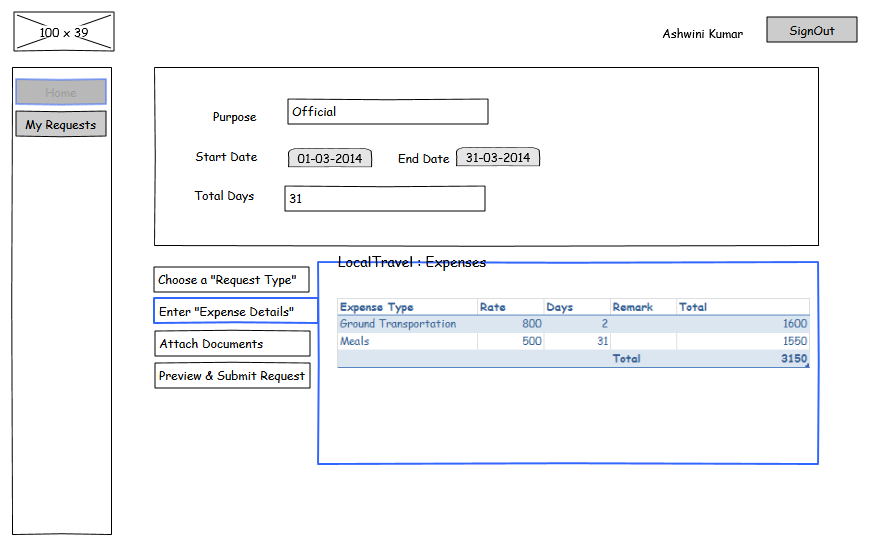
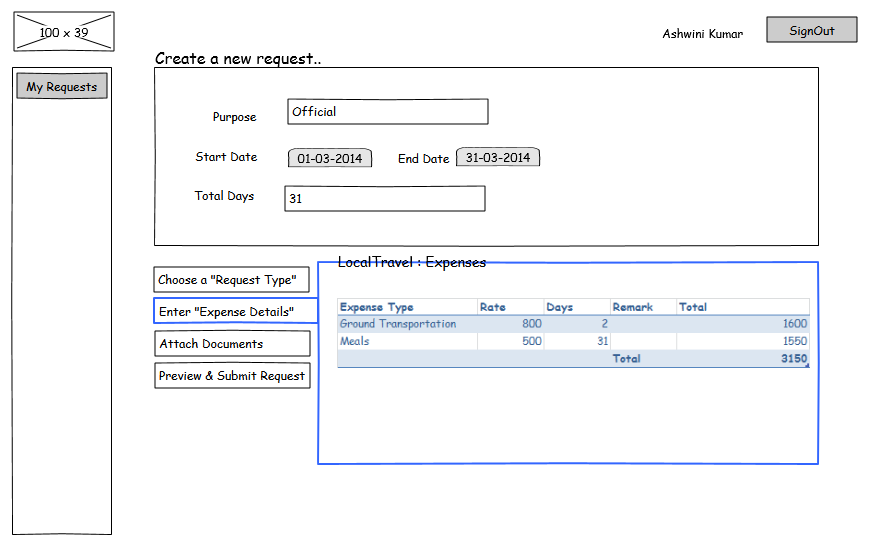
removing 2 buttons for Home and My Requests

Changed region(s): [[0.0, 0.1234, 0.1234, 0.2468], [0.1851, 0.0926, 0.3703, 0.1234]]

diff --git a/erequests/exports/index.html b/erequests/exports/index.html
@@ -1,1 +1,1 @@
-<html xmlns="http://www.w3.org/1999/xhtml"><head><meta http-equiv="Content-Type" content="text/html; charset=UTF-8" /><title>erequests.ep</title><link rel="stylesheet" href="Resources/SampleStyle.css" /></head><body><h1 id="documentTitle">erequests.ep</h1><p id="documentMetadata">Exported at: Sat Aug 09 2014 19:00:10 GMT+0530 (India Standard Time)</p><div class="Page" id="login_page"><h2>Login</h2><div class="ImageContainer"><img width="875" height="551" src="pages%5Clogin.png" usemap="#map_login" /></div><map name="map_login"><area shape="rect" coords="390.5,313.5,481.5,339.5" href="#homepage_advance_page" title="Go to page 'Homepage : Advance'" /></map></div><div class="Page" id="homepage_advance_page"><h2>Homepage : Advance</h2><div class="ImageContainer"><img width="875" height="551" src="pages%5Chomepage_advance.png" usemap="#map_homepage_advance" /></div><map name="map_homepage_advance"><area shape="rect" coords="15.5,110.5,106.5,137.25" href="#my_requests_page" title="Go to page 'My Requests'" /><area shape="rect" coords="154.5,366.75,310.5,393.5" href="#preview_submit_request_1_page" title="Go to page 'Preview &amp; Submit Request 1'" /><area shape="rect" coords="153.5,334.75,309.5,361.5" href="#attach_documents_1_page" title="Go to page 'Attach Documents 1'" /><area shape="rect" coords="154.5,301.75,310.5,328.5" href="#expense_details_outstation_travel_advance_page" title="Go to page 'Expense Details : Outstation Travel Advance'" /><area shape="rect" coords="766.5,16.5,857.5,42.5" href="#login_page" title="Go to page 'Login'" /><area shape="rect" coords="13.5,11.5,114.5,51.5" href="#login_page" title="Go to page 'Login'" /></map></div><div class="Page" id="expense_details_outstation_travel_advance_page"><h2>Expense Details : Outstation Travel Advance</h2><div class="ImageContainer"><img width="875" height="551" src="pages%5Cexpense_details_outstation_travel_advance.png" usemap="#map_expense_details_outstation_travel_advance" /></div><map name="map_expense_details_outstation_travel_advance"><area shape="rect" coords="15.5,110.5,106.5,137.25" href="#my_requests_page" title="Go to page 'My Requests'" /><area shape="rect" coords="154.5,361.75,310.5,388.5" href="#preview_submit_request_1_page" title="Go to page 'Preview &amp; Submit Request 1'" /><area shape="rect" coords="154.5,329.75,310.5,356.5" href="#attach_documents_1_page" title="Go to page 'Attach Documents 1'" /><area shape="rect" coords="154.5,266.5,310.5,292.5" href="#homepage_advance_page" title="Go to page 'Homepage : Advance'" /><area shape="rect" coords="766.5,16.5,857.5,42.5" href="#login_page" title="Go to page 'Login'" /><area shape="rect" coords="13.5,11.5,114.5,51.5" href="#login_page" title="Go to page 'Login'" /></map></div><div class="Page" id="attach_documents_1_page"><h2>Attach Documents 1</h2><div class="ImageContainer"><img width="875" height="551" src="pages%5Cattach_documents_1.png" usemap="#map_attach_documents_1" /></div><map name="map_attach_documents_1"><area shape="rect" coords="15.5,110.5,106.5,137.25" href="#my_requests_page" title="Go to page 'My Requests'" /><area shape="rect" coords="399.5,288.75,490.5,315.5" href="#attach_documents_2_page" title="Go to page 'Attach Documents 2'" /><area shape="rect" coords="766.5,16.5,857.5,42.5" href="#login_page" title="Go to page 'Login'" /><area shape="rect" coords="13.5,11.5,114.5,51.5" href="#login_page" title="Go to page 'Login'" /></map></div><div class="Page" id="attach_documents_2_page"><h2>Attach Documents 2</h2><div class="ImageContainer"><img width="875" height="551" src="pages%5Cattach_documents_2.png" usemap="#map_attach_documents_2" /></div><map name="map_attach_documents_2"><area shape="rect" coords="15.5,110.5,106.5,137.25" href="#my_requests_page" title="Go to page 'My Requests'" /><area shape="rect" coords="771,403,801,432" href="#attach_documents_1_page" title="Go to page 'Attach Documents 1'" /><area shape="rect" coords="154.5,361.75,310.5,388.5" href="#preview_submit_request_1_page" title="Go to page 'Preview &amp; Submit Request 1'" /><area shape="rect" coords="766.5,16.5,857.5,42.5" href="#login_page" title="Go to page 'Login'" /><area shape="rect" coords="13.5,11.5,114.5,51.5" href="#login_page" title="Go to page 'Login'" /></map></div><div class="Page" id="preview_submit_request_1_page"><h2>Preview &amp; Submit Request 1</h2><div class="ImageContainer"><img width="875" height="551" src="pages%5Cpreview_submit_request_1.png" usemap="#map_preview_submit_request_1" /></div><map name="map_preview_submit_request_1"><area shape="rect" coords="15.5,110.5,106.5,137.25" href="#my_requests_page" title="Go to page 'My Requests'" /><area shape="rect" coords="714.5,464.5,805.5,490.5" href="#preview_submit_request_2_page" title="Go to page 'Preview &amp; Submit Request 2'" /><area shape="rect" coords="766.5,16.5,857.5,42.5" href="#login_page" title="Go to page 'Login'" /><area shape="rect" coords="13.5,11.5,114.5,51.5" href="#login_page" title="Go to page 'Login'" /></map></div><div class="Page" id="preview_submit_request_2_page"><h2>Preview &amp; Submit Request 2</h2><div class="ImageContainer"><img width="875" height="551" src="pages%5Cpreview_submit_request_2.png" usemap="#map_preview_submit_request_2" /></div><map name="map_preview_submit_request_2"><area shape="rect" coords="15.5,110.5,106.5,137.25" href="#my_requests_page" title="Go to page 'My Requests'" /><area shape="rect" coords="131,62,849,540" href="#homepage_advance_page" title="Go to page 'Homepage : Advance'" /><area shape="rect" coords="766.5,16.5,857.5,42.5" href="#login_page" title="Go to page 'Login'" /><area shape="rect" coords="13.5,11.5,114.5,51.5" href="#login_page" title="Go to page 'Login'" /></map></div><div class="Page" id="expense_details_local_travel_advance_page"><h2>Expense Details : Local Travel Advance</h2><div class="ImageContainer"><img width="875" height="551" src="pages%5Cexpense_details_local_travel_advance.png" usemap="#map_expense_details_local_travel_advance" /></div><map name="map_expense_details_local_travel_advance"><area shape="rect" coords="15.5,110.5,106.5,137.25" href="#my_requests_page" title="Go to page 'My Requests'" /><area shape="rect" coords="154.5,361.75,310.5,388.5" href="#preview_submit_request_1_page" title="Go to page 'Preview &amp; Submit Request 1'" /><area shape="rect" coords="154.5,329.75,310.5,356.5" href="#attach_documents_1_page" title="Go to page 'Attach Documents 1'" /><area shape="rect" coords="153.5,266.5,309.5,292.5" href="#homepage_advance_page" title="Go to page 'Homepage : Advance'" /><area shape="rect" coords="766.5,16.5,857.5,42.5" href="#login_page" title="Go to page 'Login'" /><area shape="rect" coords="13.5,11.5,114.5,51.5" href="#login_page" title="Go to page 'Login'" /></map></div><div class="Page" id="expense_details_onsite_advance_page"><h2>Expense Details : Onsite Advance</h2><div class="ImageContainer"><img width="875" height="551" src="pages%5Cexpense_details_onsite_advance.png" usemap="#map_expense_details_onsite_advance" /></div><map name="map_expense_details_onsite_advance"><area shape="rect" coords="15.5,110.5,106.5,137.25" href="#my_requests_page" title="Go to page 'My Requests'" /><area shape="rect" coords="154.5,361.75,310.5,388.5" href="#preview_submit_request_1_page" title="Go to page 'Preview &amp; Submit Request 1'" /><area shape="rect" coords="154.5,329.75,310.5,356.5" href="#attach_documents_1_page" title="Go to page 'Attach Documents 1'" /><area shape="rect" coords="154.5,266.5,310.5,292.5" href="#homepage_advance_page" title="Go to page 'Homepage : Advance'" /><area shape="rect" coords="766.5,16.5,857.5,42.5" href="#login_page" title="Go to page 'Login'" /><area shape="rect" coords="13.5,11.5,114.5,51.5" href="#login_page" title="Go to page 'Login'" /></map></div><div class="Page" id="my_requests_page"><h2>My Requests</h2><div class="ImageContainer"><img width="875" height="551" src="pages%5Cmy_requests.png" usemap="#map_my_requests" /></div><map name="map_my_requests"><area shape="rect" coords="15.5,78.5,106.5,105.25" href="#homepage_advance_page" title="Go to page 'Homepage : Advance'" /><area shape="rect" coords="15,110,107,137.75" href="#my_requests_page" title="Go to page 'My Requests'" /><area shape="rect" coords="766.5,16.5,857.5,42.5" href="#login_page" title="Go to page 'Login'" /><area shape="rect" coords="13.5,11.5,114.5,51.5" href="#login_page" title="Go to page 'Login'" /></map></div></body></html>
+<html xmlns="http://www.w3.org/1999/xhtml"><head><meta http-equiv="Content-Type" content="text/html; charset=UTF-8" /><title>erequests.ep</title><link rel="stylesheet" href="Resources/SampleStyle.css" /></head><body><h1 id="documentTitle">erequests.ep</h1><p id="documentMetadata">Exported at: Sun Aug 10 2014 02:02:11 GMT+0530 (India Standard Time)</p><div class="Page" id="login_page"><h2>Login</h2><div class="ImageContainer"><img width="875" height="551" src="pages%5Clogin.png" usemap="#map_login" /></div><map name="map_login"><area shape="rect" coords="390.5,313.5,481.5,339.5" href="#homepage_advance_page" title="Go to page 'Homepage : Advance'" /></map></div><div class="Page" id="homepage_advance_page"><h2>Homepage : Advance</h2><div class="ImageContainer"><img width="875" height="551" src="pages%5Chomepage_advance.png" usemap="#map_homepage_advance" /></div><map name="map_homepage_advance"><area shape="rect" coords="16.5,72.5,107.5,99.25" href="#my_requests_page" title="Go to page 'My Requests'" /><area shape="rect" coords="154.5,366.75,310.5,393.5" href="#preview_submit_request_1_page" title="Go to page 'Preview &amp; Submit Request 1'" /><area shape="rect" coords="153.5,334.75,309.5,361.5" href="#attach_documents_1_page" title="Go to page 'Attach Documents 1'" /><area shape="rect" coords="154.5,301.75,310.5,328.5" href="#expense_details_outstation_travel_advance_page" title="Go to page 'Expense Details : Outstation Travel Advance'" /><area shape="rect" coords="766.5,16.5,857.5,42.5" href="#login_page" title="Go to page 'Login'" /><area shape="rect" coords="13.5,11.5,114.5,51.5" href="#login_page" title="Go to page 'Login'" /></map></div><div class="Page" id="expense_details_outstation_travel_advance_page"><h2>Expense Details : Outstation Travel Advance</h2><div class="ImageContainer"><img width="875" height="551" src="pages%5Cexpense_details_outstation_travel_advance.png" usemap="#map_expense_details_outstation_travel_advance" /></div><map name="map_expense_details_outstation_travel_advance"><area shape="rect" coords="16.5,72.5,107.5,99.25" href="#my_requests_page" title="Go to page 'My Requests'" /><area shape="rect" coords="154.5,361.75,310.5,388.5" href="#preview_submit_request_1_page" title="Go to page 'Preview &amp; Submit Request 1'" /><area shape="rect" coords="154.5,329.75,310.5,356.5" href="#attach_documents_1_page" title="Go to page 'Attach Documents 1'" /><area shape="rect" coords="154.5,266.5,310.5,292.5" href="#homepage_advance_page" title="Go to page 'Homepage : Advance'" /><area shape="rect" coords="766.5,16.5,857.5,42.5" href="#login_page" title="Go to page 'Login'" /><area shape="rect" coords="13.5,11.5,114.5,51.5" href="#login_page" title="Go to page 'Login'" /></map></div><div class="Page" id="attach_documents_1_page"><h2>Attach Documents 1</h2><div class="ImageContainer"><img width="875" height="551" src="pages%5Cattach_documents_1.png" usemap="#map_attach_documents_1" /></div><map name="map_attach_documents_1"><area shape="rect" coords="16.5,72.5,107.5,99.25" href="#my_requests_page" title="Go to page 'My Requests'" /><area shape="rect" coords="399.5,288.75,490.5,315.5" href="#attach_documents_2_page" title="Go to page 'Attach Documents 2'" /><area shape="rect" coords="766.5,16.5,857.5,42.5" href="#login_page" title="Go to page 'Login'" /><area shape="rect" coords="13.5,11.5,114.5,51.5" href="#login_page" title="Go to page 'Login'" /></map></div><div class="Page" id="attach_documents_2_page"><h2>Attach Documents 2</h2><div class="ImageContainer"><img width="875" height="551" src="pages%5Cattach_documents_2.png" usemap="#map_attach_documents_2" /></div><map name="map_attach_documents_2"><area shape="rect" coords="16.5,72.5,107.5,99.25" href="#my_requests_page" title="Go to page 'My Requests'" /><area shape="rect" coords="771,403,801,432" href="#attach_documents_1_page" title="Go to page 'Attach Documents 1'" /><area shape="rect" coords="154.5,361.75,310.5,388.5" href="#preview_submit_request_1_page" title="Go to page 'Preview &amp; Submit Request 1'" /><area shape="rect" coords="766.5,16.5,857.5,42.5" href="#login_page" title="Go to page 'Login'" /><area shape="rect" coords="13.5,11.5,114.5,51.5" href="#login_page" title="Go to page 'Login'" /></map></div><div class="Page" id="preview_submit_request_1_page"><h2>Preview &amp; Submit Request 1</h2><div class="ImageContainer"><img width="875" height="551" src="pages%5Cpreview_submit_request_1.png" usemap="#map_preview_submit_request_1" /></div><map name="map_preview_submit_request_1"><area shape="rect" coords="16.5,72.5,107.5,99.25" href="#my_requests_page" title="Go to page 'My Requests'" /><area shape="rect" coords="714.5,464.5,805.5,490.5" href="#preview_submit_request_2_page" title="Go to page 'Preview &amp; Submit Request 2'" /><area shape="rect" coords="766.5,16.5,857.5,42.5" href="#login_page" title="Go to page 'Login'" /><area shape="rect" coords="13.5,11.5,114.5,51.5" href="#login_page" title="Go to page 'Login'" /></map></div><div class="Page" id="preview_submit_request_2_page"><h2>Preview &amp; Submit Request 2</h2><div class="ImageContainer"><img width="875" height="551" src="pages%5Cpreview_submit_request_2.png" usemap="#map_preview_submit_request_2" /></div><map name="map_preview_submit_request_2"><area shape="rect" coords="16.5,72.5,107.5,99.25" href="#my_requests_page" title="Go to page 'My Requests'" /><area shape="rect" coords="131,62,849,540" href="#homepage_advance_page" title="Go to page 'Homepage : Advance'" /><area shape="rect" coords="766.5,16.5,857.5,42.5" href="#login_page" title="Go to page 'Login'" /><area shape="rect" coords="13.5,11.5,114.5,51.5" href="#login_page" title="Go to page 'Login'" /></map></div><div class="Page" id="expense_details_local_travel_advance_page"><h2>Expense Details : Local Travel Advance</h2><div class="ImageContainer"><img width="875" height="551" src="pages%5Cexpense_details_local_travel_advance.png" usemap="#map_expense_details_local_travel_advance" /></div><map name="map_expense_details_local_travel_advance"><area shape="rect" coords="16.5,72.5,107.5,99.25" href="#my_requests_page" title="Go to page 'My Requests'" /><area shape="rect" coords="154.5,361.75,310.5,388.5" href="#preview_submit_request_1_page" title="Go to page 'Preview &amp; Submit Request 1'" /><area shape="rect" coords="154.5,329.75,310.5,356.5" href="#attach_documents_1_page" title="Go to page 'Attach Documents 1'" /><area shape="rect" coords="153.5,266.5,309.5,292.5" href="#homepage_advance_page" title="Go to page 'Homepage : Advance'" /><area shape="rect" coords="766.5,16.5,857.5,42.5" href="#login_page" title="Go to page 'Login'" /><area shape="rect" coords="13.5,11.5,114.5,51.5" href="#login_page" title="Go to page 'Login'" /></map></div><div class="Page" id="expense_details_onsite_advance_page"><h2>Expense Details : Onsite Advance</h2><div class="ImageContainer"><img width="875" height="551" src="pages%5Cexpense_details_onsite_advance.png" usemap="#map_expense_details_onsite_advance" /></div><map name="map_expense_details_onsite_advance"><area shape="rect" coords="16.5,72.5,107.5,99.25" href="#my_requests_page" title="Go to page 'My Requests'" /><area shape="rect" coords="154.5,361.75,310.5,388.5" href="#preview_submit_request_1_page" title="Go to page 'Preview &amp; Submit Request 1'" /><area shape="rect" coords="154.5,329.75,310.5,356.5" href="#attach_documents_1_page" title="Go to page 'Attach Documents 1'" /><area shape="rect" coords="154.5,266.5,310.5,292.5" href="#homepage_advance_page" title="Go to page 'Homepage : Advance'" /><area shape="rect" coords="766.5,16.5,857.5,42.5" href="#login_page" title="Go to page 'Login'" /><area shape="rect" coords="13.5,11.5,114.5,51.5" href="#login_page" title="Go to page 'Login'" /></map></div><div class="Page" id="my_requests_page"><h2>My Requests</h2><div class="ImageContainer"><img width="875" height="551" src="pages%5Cmy_requests.png" usemap="#map_my_requests" /></div><map name="map_my_requests"><area shape="rect" coords="16.5,72.5,107.5,99.25" href="#homepage_advance_page" title="Go to page 'Homepage : Advance'" /><area shape="rect" coords="15.5,78.5,106.5,105.25" href="#homepage_advance_page" title="Go to page 'Homepage : Advance'" /><area shape="rect" coords="15,110,107,137.75" href="#my_requests_page" title="Go to page 'My Requests'" /><area shape="rect" coords="766.5,16.5,857.5,42.5" href="#login_page" title="Go to page 'Login'" /><area shape="rect" coords="13.5,11.5,114.5,51.5" href="#login_page" title="Go to page 'Login'" /></map></div></body></html>
